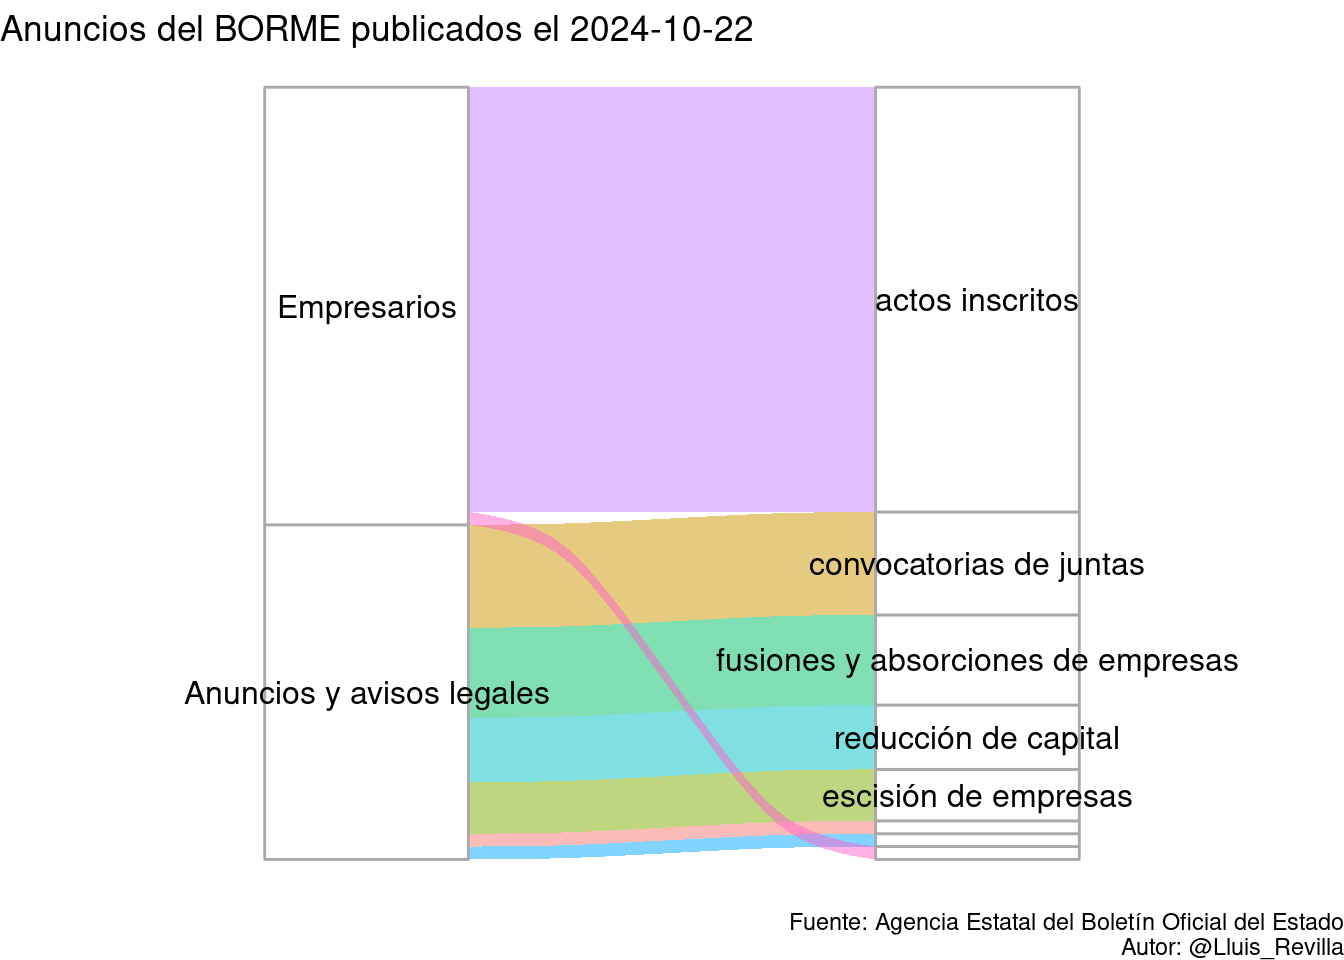
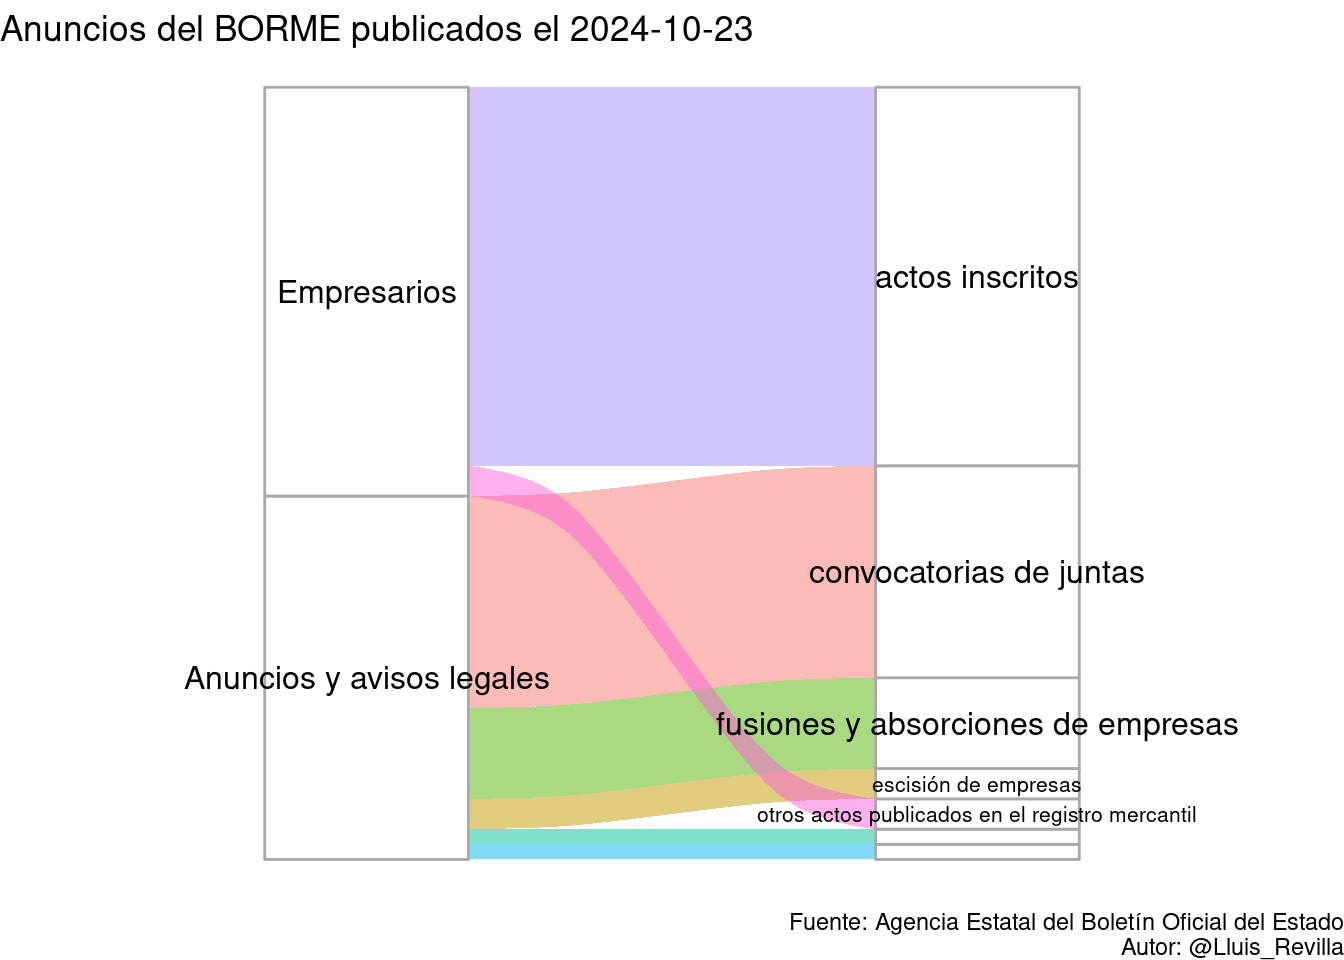
Update BORME

Changed region(s): [[0.125, 0.4688, 0.9375, 0.9062], [0.6562, 0.2812, 0.8125, 0.3438], [0.1875, 0.2812, 0.3438, 0.3438]]

diff --git a/docs/last_BORME.html b/docs/last_BORME.html
@@ -379,14 +379,14 @@ $(document).ready(function () {
 
 <div id="resumen-gráfico" class="section level1">
 <h1>Resumen gráfico</h1>
-<p>Esta página web contiene el último sumario del BORME publicado el 2024-10-22 con 60 publicaciones.</p>
+<p>Esta página web contiene el último sumario del BORME publicado el 2024-10-23 con 51 publicaciones.</p>
 <p><img src="last_BORME_files/figure-html/graphics-1.png" width="672" /></p>
 </div>
 <div id="tabla-de-publicaciones" class="section level1">
 <h1>Tabla de publicaciones</h1>
 <p>Aquí está la tabla completa con enlaces a las publicaciones:</p>
-<div class="datatables html-widget html-fill-item-overflow-hidden html-fill-item" id="htmlwidget-1b2d4d6187c052f6e823" style="width:100%;height:auto;"></div>
-<script type="application/json" data-for="htmlwidget-1b2d4d6187c052f6e823">{"x":{"filter":"top","vertical":false,"filterHTML":"<tr>\n  <td><\/td>\n  <td data-type=\"character\" style=\"vertical-align: top;\">\n    <div class=\"form-group has-feedback\" style=\"margin-bottom: auto;\">\n      <input type=\"search\" placeholder=\"All\" class=\"form-control\" style=\"width: 100%;\"/>\n      <span class=\"glyphicon glyphicon-remove-circle form-control-feedback\"><\/span>\n    <\/div>\n  <\/td>\n  <td data-type=\"character\" style=\"vertical-align: top;\">\n    <div class=\"form-group has-feedback\" style=\"margin-bottom: auto;\">\n      <input type=\"search\" placeholder=\"All\" class=\"form-control\" style=\"width: 100%;\"/>\n      <span class=\"glyphicon glyphicon-remove-circle form-control-feedback\"><\/span>\n    <\/div>\n  <\/td>\n  <td data-type=\"character\" style=\"vertical-align: top;\">\n    <div class=\"form-group has-feedback\" style=\"margin-bottom: auto;\">\n      <input type=\"search\" placeholder=\"All\" class=\"form-control\" style=\"width: 100%;\" disabled=\"\"/>\n      <span class=\"glyphicon glyphicon-remove-circle form-control-feedback\"><\/span>\n    <\/div>\n  <\/td>\n  <td data-type=\"character\" style=\"vertical-align: top;\">\n    <div class=\"form-group has-feedback\" style=\"margin-bottom: auto;\">\n      <input type=\"search\" placeholder=\"All\" class=\"form-control\" style=\"width: 100%;\"/>\n      <span class=\"glyphicon glyphicon-remove-circle form-control-feedback\"><\/span>\n    <\/div>\n  <\/td>\n<\/tr>","data":[["1","2","3","4","5","6","7","8","9","10","11","12","13","14","15","16","17","18","19","20","21","22","23","24","25","26","27","28","29","30","31","32","33","34","35","36","37","38","39","40","41","42","43","44","45","46","47","48","49","50","51","52","53","54","55","56","57","58","59","60"],["SECCIÓN PRIMERA. Empresarios","SECCIÓN PRIMERA. Empresarios","SECCIÓN PRIMERA. Empresarios","SECCIÓN PRIMERA. Empresarios","SECCIÓN PRIMERA. Empresarios","SECCIÓN PRIMERA. Empresarios","SECCIÓN PRIMERA. Empresarios","SECCIÓN PRIMERA. Empresarios","SECCIÓN PRIMERA. Empresarios","SECCIÓN PRIMERA. Empresarios","SECCIÓN PRIMERA. Empresarios","SECCIÓN PRIMERA. Empresarios","SECCIÓN PRIMERA. Empresarios","SECCIÓN PRIMERA. Empresarios","SECCIÓN PRIMERA. Empresarios","SECCIÓN PRIMERA. Empresarios","SECCIÓN PRIMERA. Empresarios","SECCIÓN PRIMERA. Empresarios","SECCIÓN PRIMERA. Empresarios","SECCIÓN PRIMERA. Empresarios","SECCIÓN PRIMERA. Empresarios","SECCIÓN PRIMERA. Empresarios","SECCIÓN PRIMERA. Empresarios","SECCIÓN PRIMERA. Empresarios","SECCIÓN PRIMERA. Empresarios","SECCIÓN PRIMERA. Empresarios","SECCIÓN PRIMERA. Empresarios","SECCIÓN PRIMERA. Empresarios","SECCIÓN PRIMERA. Empresarios","SECCIÓN PRIMERA. Empresarios","SECCIÓN PRIMERA. Empresarios","SECCIÓN PRIMERA. Empresarios","SECCIÓN PRIMERA. Empresarios","SECCIÓN PRIMERA. Empresarios","SECCIÓN SEGUNDA. Anuncios y avisos legales","SECCIÓN SEGUNDA. Anuncios y avisos legales","SECCIÓN SEGUNDA. Anuncios y avisos legales","SECCIÓN SEGUNDA. Anuncios y avisos legales","SECCIÓN SEGUNDA. Anuncios y avisos legales","SECCIÓN SEGUNDA. Anuncios y avisos legales","SECCIÓN SEGUNDA. Anuncios y avisos legales","SECCIÓN SEGUNDA. Anuncios y avisos legales","SECCIÓN SEGUNDA. Anuncios y avisos legales","SECCIÓN SEGUNDA. Anuncios y avisos legales","SECCIÓN SEGUNDA. Anuncios y avisos legales","SECCIÓN SEGUNDA. Anuncios y avisos legales","SECCIÓN SEGUNDA. Anuncios y avisos legales","SECCIÓN SEGUNDA. Anuncios y avisos legales","SECCIÓN SEGUNDA. Anuncios y avisos legales","SECCIÓN SEGUNDA. Anuncios y avisos legales","SECCIÓN SEGUNDA. Anuncios y avisos legales","SECCIÓN SEGUNDA. Anuncios y avisos legales","SECCIÓN SEGUNDA. Anuncios y avisos legales","SECCIÓN SEGUNDA. Anuncios y avisos legales","SECCIÓN SEGUNDA. Anuncios y avisos legales","SECCIÓN SEGUNDA. Anuncios y avisos legales","SECCIÓN SEGUNDA. Anuncios y avisos legales","SECCIÓN SEGUNDA. Anuncios y avisos legales","SECCIÓN SEGUNDA. Anuncios y avisos legales","SECCIÓN SEGUNDA. Anuncios y avisos legales"],["Actos inscritos","Actos inscritos","Actos inscritos","Actos inscritos","Actos inscritos","Actos inscritos","Actos inscritos","Actos inscritos","Actos inscritos","Actos inscritos","Actos inscritos","Actos inscritos","Actos inscritos","Actos inscritos","Actos inscritos","Actos inscritos","Actos inscritos","Actos inscritos","Actos inscritos","Actos inscritos","Actos inscritos","Actos inscritos","Actos inscritos","Actos inscritos","Actos inscritos","Actos inscritos","Actos inscritos","Actos inscritos","Actos inscritos","Actos inscritos","Actos inscritos","Actos inscritos","Actos inscritos","Otros actos publicados en el Registro Mercantil","CONVOCATORIAS DE JUNTAS","CONVOCATORIAS DE JUNTAS","CONVOCATORIAS DE JUNTAS","CONVOCATORIAS DE JUNTAS","CONVOCATORIAS DE JUNTAS","CONVOCATORIAS DE JUNTAS","CONVOCATORIAS DE JUNTAS","CONVOCATORIAS DE JUNTAS","FUSIONES Y ABSORCIONES DE EMPRESAS","FUSIONES Y ABSORCIONES DE EMPRESAS","FUSIONES Y ABSORCIONES DE EMPRESAS","FUSIONES Y ABSORCIONES DE EMPRESAS","FUSIONES Y ABSORCIONES DE EMPRESAS","FUSIONES Y ABSORCIONES DE EMPRESAS","FUSIONES Y ABSORCIONES DE EMPRESAS","ESCISIÓN DE EMPRESAS","ESCISIÓN DE EMPRESAS","ESCISIÓN DE EMPRESAS","ESCISIÓN DE EMPRESAS","CESIÓN DE EMPRESAS","TRANSFORMACIÓN DE EMPRESAS","REDUCCIÓN DE CAPITAL","REDUCCIÓN DE CAPITAL","REDUCCIÓN DE CAPITAL","REDUCCIÓN DE CAPITAL","REDUCCIÓN DE CAPITAL"],[null,null,null,null,null,null,null,null,null,null,null,null,null,null,null,null,null,null,null,null,null,null,null,null,null,null,null,null,null,null,null,null,null,null,null,null,null,null,null,null,null,null,null,null,null,null,null,null,null,null,null,null,null,null,null,null,null,null,null,null],["BORME-A-2024-204-02","BORME-A-2024-204-03","BORME-A-2024-204-04","BORME-A-2024-204-05","BORME-A-2024-204-06","BORME-A-2024-204-08","BORME-A-2024-204-10","BORME-A-2024-204-11","BORME-A-2024-204-14","BORME-A-2024-204-15","BORME-A-2024-204-16","BORME-A-2024-204-17","BORME-A-2024-204-18","BORME-A-2024-204-21","BORME-A-2024-204-24","BORME-A-2024-204-25","BORME-A-2024-204-26","BORME-A-2024-204-28","BORME-A-2024-204-29","BORME-A-2024-204-30","BORME-A-2024-204-31","BORME-A-2024-204-33","BORME-A-2024-204-35","BORME-A-2024-204-36","BORME-A-2024-204-40","BORME-A-2024-204-41","BORME-A-2024-204-43","BORME-A-2024-204-44","BORME-A-2024-204-45","BORME-A-2024-204-47","BORME-A-2024-204-48","BORME-A-2024-204-49","BORME-A-2024-204-99","BORME-B-2024-204-08","BORME-C-2024-5613","BORME-C-2024-5614","BORME-C-2024-5615","BORME-C-2024-5616","BORME-C-2024-5617","BORME-C-2024-5618","BORME-C-2024-5619","BORME-C-2024-5620","BORME-C-2024-5621","BORME-C-2024-5622","BORME-C-2024-5623","BORME-C-2024-5624","BORME-C-2024-5625","BORME-C-2024-5626","BORME-C-2024-5627","BORME-C-2024-5628","BORME-C-2024-5629","BORME-C-2024-5630","BORME-C-2024-5631","BORME-C-2024-5632","BORME-C-2024-5633","BORME-C-2024-5634","BORME-C-2024-5635","BORME-C-2024-5636","BORME-C-2024-5637","BORME-C-2024-5638"]],"container":"<table class=\"display\">\n  <thead>\n    <tr>\n      <th> <\/th>\n      <th>Sección<\/th>\n      <th>Emisor<\/th>\n      <th>Texto<\/th>\n      <th>Link<\/th>\n    <\/tr>\n  <\/thead>\n<\/table>","options":{"pageLength":10,"autoWidth":true,"columnDefs":[{"orderable":false,"targets":0},{"name":" ","targets":0},{"name":"Sección","targets":1},{"name":"Emisor","targets":2},{"name":"Texto","targets":3},{"name":"Link","targets":4}],"order":[],"orderClasses":false,"orderCellsTop":true}},"evals":[],"jsHooks":[]}</script>
+<div class="datatables html-widget html-fill-item-overflow-hidden html-fill-item" id="htmlwidget-a8f56dce67992ab9c2ec" style="width:100%;height:auto;"></div>
+<script type="application/json" data-for="htmlwidget-a8f56dce67992ab9c2ec">{"x":{"filter":"top","vertical":false,"filterHTML":"<tr>\n  <td><\/td>\n  <td data-type=\"character\" style=\"vertical-align: top;\">\n    <div class=\"form-group has-feedback\" style=\"margin-bottom: auto;\">\n      <input type=\"search\" placeholder=\"All\" class=\"form-control\" style=\"width: 100%;\"/>\n      <span class=\"glyphicon glyphicon-remove-circle form-control-feedback\"><\/span>\n    <\/div>\n  <\/td>\n  <td data-type=\"character\" style=\"vertical-align: top;\">\n    <div class=\"form-group has-feedback\" style=\"margin-bottom: auto;\">\n      <input type=\"search\" placeholder=\"All\" class=\"form-control\" style=\"width: 100%;\"/>\n      <span class=\"glyphicon glyphicon-remove-circle form-control-feedback\"><\/span>\n    <\/div>\n  <\/td>\n  <td data-type=\"character\" style=\"vertical-align: top;\">\n    <div class=\"form-group has-feedback\" style=\"margin-bottom: auto;\">\n      <input type=\"search\" placeholder=\"All\" class=\"form-control\" style=\"width: 100%;\" disabled=\"\"/>\n      <span class=\"glyphicon glyphicon-remove-circle form-control-feedback\"><\/span>\n    <\/div>\n  <\/td>\n  <td data-type=\"character\" style=\"vertical-align: top;\">\n    <div class=\"form-group has-feedback\" style=\"margin-bottom: auto;\">\n      <input type=\"search\" placeholder=\"All\" class=\"form-control\" style=\"width: 100%;\"/>\n      <span class=\"glyphicon glyphicon-remove-circle form-control-feedback\"><\/span>\n    <\/div>\n  <\/td>\n<\/tr>","data":[["1","2","3","4","5","6","7","8","9","10","11","12","13","14","15","16","17","18","19","20","21","22","23","24","25","26","27","28","29","30","31","32","33","34","35","36","37","38","39","40","41","42","43","44","45","46","47","48","49","50","51"],["SECCIÓN PRIMERA. Empresarios","SECCIÓN PRIMERA. Empresarios","SECCIÓN PRIMERA. Empresarios","SECCIÓN PRIMERA. Empresarios","SECCIÓN PRIMERA. Empresarios","SECCIÓN PRIMERA. Empresarios","SECCIÓN PRIMERA. Empresarios","SECCIÓN PRIMERA. Empresarios","SECCIÓN PRIMERA. Empresarios","SECCIÓN PRIMERA. Empresarios","SECCIÓN PRIMERA. Empresarios","SECCIÓN PRIMERA. Empresarios","SECCIÓN PRIMERA. Empresarios","SECCIÓN PRIMERA. Empresarios","SECCIÓN PRIMERA. Empresarios","SECCIÓN PRIMERA. Empresarios","SECCIÓN PRIMERA. Empresarios","SECCIÓN PRIMERA. Empresarios","SECCIÓN PRIMERA. Empresarios","SECCIÓN PRIMERA. Empresarios","SECCIÓN PRIMERA. Empresarios","SECCIÓN PRIMERA. Empresarios","SECCIÓN PRIMERA. Empresarios","SECCIÓN PRIMERA. Empresarios","SECCIÓN PRIMERA. Empresarios","SECCIÓN PRIMERA. Empresarios","SECCIÓN PRIMERA. Empresarios","SECCIÓN SEGUNDA. Anuncios y avisos legales","SECCIÓN SEGUNDA. Anuncios y avisos legales","SECCIÓN SEGUNDA. Anuncios y avisos legales","SECCIÓN SEGUNDA. Anuncios y avisos legales","SECCIÓN SEGUNDA. Anuncios y avisos legales","SECCIÓN SEGUNDA. Anuncios y avisos legales","SECCIÓN SEGUNDA. Anuncios y avisos legales","SECCIÓN SEGUNDA. Anuncios y avisos legales","SECCIÓN SEGUNDA. Anuncios y avisos legales","SECCIÓN SEGUNDA. Anuncios y avisos legales","SECCIÓN SEGUNDA. Anuncios y avisos legales","SECCIÓN SEGUNDA. Anuncios y avisos legales","SECCIÓN SEGUNDA. Anuncios y avisos legales","SECCIÓN SEGUNDA. Anuncios y avisos legales","SECCIÓN SEGUNDA. Anuncios y avisos legales","SECCIÓN SEGUNDA. Anuncios y avisos legales","SECCIÓN SEGUNDA. Anuncios y avisos legales","SECCIÓN SEGUNDA. Anuncios y avisos legales","SECCIÓN SEGUNDA. Anuncios y avisos legales","SECCIÓN SEGUNDA. Anuncios y avisos legales","SECCIÓN SEGUNDA. Anuncios y avisos legales","SECCIÓN SEGUNDA. Anuncios y avisos legales","SECCIÓN SEGUNDA. Anuncios y avisos legales","SECCIÓN SEGUNDA. Anuncios y avisos legales"],["Actos inscritos","Actos inscritos","Actos inscritos","Actos inscritos","Actos inscritos","Actos inscritos","Actos inscritos","Actos inscritos","Actos inscritos","Actos inscritos","Actos inscritos","Actos inscritos","Actos inscritos","Actos inscritos","Actos inscritos","Actos inscritos","Actos inscritos","Actos inscritos","Actos inscritos","Actos inscritos","Actos inscritos","Actos inscritos","Actos inscritos","Actos inscritos","Actos inscritos","Otros actos publicados en el Registro Mercantil","Otros actos publicados en el Registro Mercantil","CONVOCATORIAS DE JUNTAS","CONVOCATORIAS DE JUNTAS","CONVOCATORIAS DE JUNTAS","CONVOCATORIAS DE JUNTAS","CONVOCATORIAS DE JUNTAS","CONVOCATORIAS DE JUNTAS","CONVOCATORIAS DE JUNTAS","CONVOCATORIAS DE JUNTAS","CONVOCATORIAS DE JUNTAS","CONVOCATORIAS DE JUNTAS","CONVOCATORIAS DE JUNTAS","CONVOCATORIAS DE JUNTAS","CONVOCATORIAS DE JUNTAS","CONVOCATORIAS DE JUNTAS","FUSIONES Y ABSORCIONES DE EMPRESAS","FUSIONES Y ABSORCIONES DE EMPRESAS","FUSIONES Y ABSORCIONES DE EMPRESAS","FUSIONES Y ABSORCIONES DE EMPRESAS","FUSIONES Y ABSORCIONES DE EMPRESAS","FUSIONES Y ABSORCIONES DE EMPRESAS","ESCISIÓN DE EMPRESAS","ESCISIÓN DE EMPRESAS","TRANSFORMACIÓN DE EMPRESAS","REDUCCIÓN DE CAPITAL"],[null,null,null,null,null,null,null,null,null,null,null,null,null,null,null,null,null,null,null,null,null,null,null,null,null,null,null,null,null,null,null,null,null,null,null,null,null,null,null,null,null,null,null,null,null,null,null,null,null,null,null],["BORME-A-2024-205-04","BORME-A-2024-205-06","BORME-A-2024-205-07","BORME-A-2024-205-08","BORME-A-2024-205-11","BORME-A-2024-205-12","BORME-A-2024-205-14","BORME-A-2024-205-15","BORME-A-2024-205-17","BORME-A-2024-205-26","BORME-A-2024-205-28","BORME-A-2024-205-29","BORME-A-2024-205-30","BORME-A-2024-205-31","BORME-A-2024-205-33","BORME-A-2024-205-35","BORME-A-2024-205-36","BORME-A-2024-205-38","BORME-A-2024-205-40","BORME-A-2024-205-41","BORME-A-2024-205-43","BORME-A-2024-205-45","BORME-A-2024-205-46","BORME-A-2024-205-50","BORME-A-2024-205-99","BORME-B-2024-205-28","BORME-B-2024-205-31","BORME-C-2024-5639","BORME-C-2024-5640","BORME-C-2024-5641","BORME-C-2024-5642","BORME-C-2024-5643","BORME-C-2024-5644","BORME-C-2024-5645","BORME-C-2024-5646","BORME-C-2024-5647","BORME-C-2024-5648","BORME-C-2024-5649","BORME-C-2024-5650","BORME-C-2024-5651","BORME-C-2024-5652","BORME-C-2024-5653","BORME-C-2024-5654","BORME-C-2024-5655","BORME-C-2024-5656","BORME-C-2024-5657","BORME-C-2024-5658","BORME-C-2024-5659","BORME-C-2024-5660","BORME-C-2024-5661","BORME-C-2024-5662"]],"container":"<table class=\"display\">\n  <thead>\n    <tr>\n      <th> <\/th>\n      <th>Sección<\/th>\n      <th>Emisor<\/th>\n      <th>Texto<\/th>\n      <th>Link<\/th>\n    <\/tr>\n  <\/thead>\n<\/table>","options":{"pageLength":10,"autoWidth":true,"columnDefs":[{"orderable":false,"targets":0},{"name":" ","targets":0},{"name":"Sección","targets":1},{"name":"Emisor","targets":2},{"name":"Texto","targets":3},{"name":"Link","targets":4}],"order":[],"orderClasses":false,"orderCellsTop":true}},"evals":[],"jsHooks":[]}</script>
 </div>
 
 
